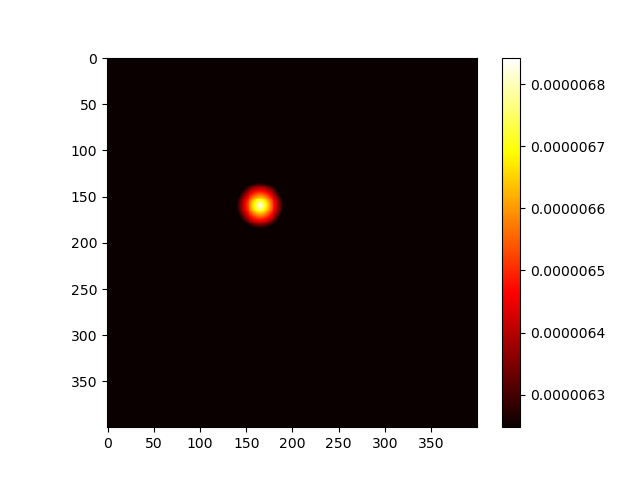
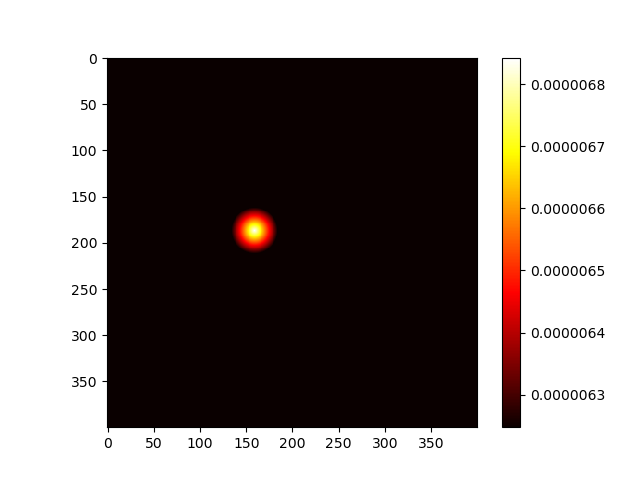
working impedance control

Changed region(s): [[0.3438, 0.375, 0.4375, 0.5312]]

diff --git a/src/impedance_control.py b/src/impedance_control.py
@@ -15,37 +15,180 @@ from visualization_msgs.msg import InteractiveMarker, InteractiveMarkerControl
 from interactive_markers.interactive_marker_server import InteractiveMarkerServer, InteractiveMarkerFeedback
 
 robot_pose = PoseStamped()
-initial_pose_found = False
 pose_pub = None
 # [[min_x, max_x], [min_y, max_y], [min_z, max_z]]
 position_limits = [[0.2, 0.6], [-0.6, 0.6], [0.05, 0.9]]
 map_translation = [0.3, -0.2, 0.0]
 NUM_ANGLE_STEPS = 10
 
-class FrankaRobot(object):
-    def __init__(self):
-        super(FrankaRobot, self).__init__()
-        moveit_commander.roscpp_initialize(sys.argv)
-        self.move_group = moveit_commander.MoveGroupCommander("panda_arm")
-        self.move_group.set_end_effector_link("panda_link8")
 
-    def get_robot_task_state(self):
-        robot_ee_pose = self.move_group.get_current_pose().pose
-        return [[robot_ee_pose.position.x, robot_ee_pose.position.y, robot_ee_pose.position.z], [robot_ee_pose.orientation.x, robot_ee_pose.orientation.y, robot_ee_pose.orientation.z, robot_ee_pose.orientation.w]]
+class Robot:
+    def __init__(self, link_name):
+        self.moving = False
+        self.angle_moving = False
+        self.position_index = 0
+        self.angle_moves = 0
+        self.initial_pose_found = False
+        self.link_name = link_name
+
+        # get start state of robot:
+        state_sub = rospy.Subscriber("franka_state_controller/franka_states", FrankaState, self.franka_state_callback_start)
+        self.pose_pub = rospy.Publisher("equilibrium_pose", PoseStamped, queue_size=10)
+        while not self.initial_pose_found:
+            rospy.sleep(1)
+        state_sub.unregister()
+
+        print(self.robot_pose)
+        self.pose_pub.publish(self.robot_pose)
+
+        # initialize the map:
+        self.weight_map = WeightMap(400, 400)
+        self.current_position = (self.robot_current_pose[0][0] ,self.robot_current_pose[0][1])
+        self.weight_map.update(self.robot_to_map_translation(self.current_position))
+
+        state_sub = rospy.Subscriber("franka_state_controller/franka_states", FrankaState, self.franka_state_callback)
+        self.rate = rospy.Rate(1)
+        while not rospy.is_shutdown():
+            self.rate.sleep()
+
+    def franka_state_callback_start(self, msg):
+        self.robot_pose = PoseStamped()
+        initial_quaternion = tf.transformations.quaternion_from_matrix(np.transpose(np.reshape(msg.O_T_EE, (4, 4))))
+        initial_quaternion = initial_quaternion / np.linalg.norm(initial_quaternion)
+        self.robot_pose.pose.orientation.x = initial_quaternion[0]
+        self.robot_pose.pose.orientation.y = initial_quaternion[1]
+        self.robot_pose.pose.orientation.z = initial_quaternion[2]
+        self.robot_pose.pose.orientation.w = initial_quaternion[3]
+        self.robot_pose.pose.position.x = msg.O_T_EE[12]
+        self.robot_pose.pose.position.y = msg.O_T_EE[13]
+        self.robot_pose.pose.position.z = msg.O_T_EE[14]
+
+        self.initial_pose_found = True
+        self.robot_current_pose = [[self.robot_pose.pose.position.x, self.robot_pose.pose.position.y, self.robot_pose.pose.position.z], [self.robot_pose.pose.orientation.x, self.robot_pose.pose.orientation.y, self.robot_pose.pose.orientation.z, self.robot_pose.pose.orientation.w]]
+
+    def franka_state_callback(self, msg):
+        self.robot_pose = PoseStamped()
+        initial_quaternion = tf.transformations.quaternion_from_matrix(np.transpose(np.reshape(msg.O_T_EE, (4, 4))))
+        initial_quaternion = initial_quaternion / np.linalg.norm(initial_quaternion)
+        self.robot_pose.pose.orientation.x = initial_quaternion[0]
+        self.robot_pose.pose.orientation.y = initial_quaternion[1]
+        self.robot_pose.pose.orientation.z = initial_quaternion[2]
+        self.robot_pose.pose.orientation.w = initial_quaternion[3]
+        self.robot_pose.pose.position.x = msg.O_T_EE[12]
+        self.robot_pose.pose.position.y = msg.O_T_EE[13]
+        self.robot_pose.pose.position.z = msg.O_T_EE[14]
+        self.robot_current_pose = [[self.robot_pose.pose.position.x, self.robot_pose.pose.position.y, self.robot_pose.pose.position.z], [self.robot_pose.pose.orientation.x, self.robot_pose.pose.orientation.y, self.robot_pose.pose.orientation.z, self.robot_pose.pose.orientation.w]]
+
+        self.initial_pose_found = True
+
+        if not self.moving and not self.angle_moving:
+            print("Calculating next position")
+            next_position = self.weight_map.get_next_target()
+            next_position = self.map_to_robot_translation(next_position)
+            self.positions, self.angles = self.interpolate_movement(self.current_position, next_position, self.robot_current_pose[1])
+            self.position_index = 0
+            self.angle_moves = 0
+            self.angle_moving = True
+            return
+
+        if self.angle_moving:
+            print("angle moving: ", self.angle_moves)
+            print(self.angles)
+            self.move_to_next_position(self.positions[0], self.angles[self.angle_moves])
+            self.angle_moves +=1
+            if self.angle_moves == NUM_ANGLE_STEPS:
+                self.angle_moving = False
+                self.moving = True
+                self.angle_moves = 0
+            return
+
+        if self.moving:
+            print("moving: ", self.position_index)
+            self.move_to_next_position(self.positions[self.position_index], self.angles[-1])
+
+            self.weight_map.update(self.robot_to_map_translation((self.robot_current_pose[0][0], self.robot_current_pose[0][1])))
+
+            self.current_position = (self.robot_current_pose[0][0], self.robot_current_pose[0][1])
+
+            self.position_index += 1
+            if self.position_index == len(self.positions):
+                self.moving = False
+            return
+
+        plt.imshow(self.weight_map.probabilities, cmap='hot', interpolation='nearest')
+        plt.colorbar()
+        frame_filename = f"/home/willmandil/catkin_ws/src/tabletop_pushing/robot_position_map/inverse_prob_frame_{self.position_index}.png"
+        plt.savefig(frame_filename)
+        plt.close()
+
+        self.rate.sleep()
 
 
-def franka_state_callback(msg):
-    initial_quaternion = tf.transformations.quaternion_from_matrix(np.transpose(np.reshape(msg.O_T_EE, (4, 4))))
-    initial_quaternion = initial_quaternion / np.linalg.norm(initial_quaternion)
-    robot_pose.pose.orientation.x = initial_quaternion[0]
-    robot_pose.pose.orientation.y = initial_quaternion[1]
-    robot_pose.pose.orientation.z = initial_quaternion[2]
-    robot_pose.pose.orientation.w = initial_quaternion[3]
-    robot_pose.pose.position.x = msg.O_T_EE[12]
-    robot_pose.pose.position.y = msg.O_T_EE[13]
-    robot_pose.pose.position.z = msg.O_T_EE[14]
-    global initial_pose_found
-    initial_pose_found = True
+    def interpolate_movement(self, start_position, end_position, start_angle_quat):
+        sx, sy = start_position[0], start_position[1]
+        ex, ey = end_position[0], end_position[1]
+        # Calculate the distance between the start and end positions
+        distance = np.sqrt((sx - ex)**2 + (sy - ey)**2)
+        # Calculate the number of steps to take
+        num_steps = int(distance / 0.015)
+        if num_steps == 0:
+            return [start_position]
+        # Calculate the step size
+        step_size = 1.0 / num_steps
+        # Calculate the x and y step sizes
+        x_step = (ex - sx) * step_size
+        y_step = (ey - sy) * step_size
+        # Create a list of positions to move to
+        positions = []
+        for i in range(num_steps):
+            positions.append((sx + i * x_step, sy + i * y_step))
+
+        # Calculate the angle between the start and end positions
+
+        roll, pitch, yaw = tf.transformations.euler_from_quaternion(start_angle_quat)
+        start_angle = yaw
+        finish_angle = np.arctan2(ey - sy, ex - sx)
+
+        angle_step_size = 1.0 / NUM_ANGLE_STEPS
+        angles = []
+        for i in range(NUM_ANGLE_STEPS):
+            angles.append(start_angle + i * (finish_angle - start_angle) * angle_step_size)
+
+        return positions, angles
+
+    def move_to_next_position(self, position, angle):
+        new_pose = PoseStamped()
+        new_pose.header.frame_id = link_name
+        new_pose.header.stamp = rospy.Time(0)
+        new_pose.pose.position.x = position[0]
+        new_pose.pose.position.y = position[1]
+        new_pose.pose.position.z = new_pose.pose.position.z
+
+        if angle > 2.5:
+            angle = 2.5
+        elif angle < -2.5:
+            angle = -2.5
+
+        # convert quaternion to euler
+        roll, pitch, yaw = tf.transformations.euler_from_quaternion([1, 0, 0, 0])
+        quaternion = tf.transformations.quaternion_from_euler(roll, pitch, angle)
+
+        new_pose.pose.orientation.x = quaternion[0]
+        new_pose.pose.orientation.y = quaternion[1]
+        new_pose.pose.orientation.z = quaternion[2]
+        new_pose.pose.orientation.w = quaternion[3]
+
+        self.pose_pub.publish(new_pose)
+
+    def map_to_robot_translation(self, map_position):
+        robot_x = (map_position[0] * 0.001) + map_translation[0]
+        robot_y = (map_position[1] * 0.001) + map_translation[1]
+        return (robot_x, robot_y)
+
+    def robot_to_map_translation(self, robot_position):  # works with map_translation = [0.2, -0.2, 0.0]
+        map_x = int((robot_position[0] - map_translation[0]) * 1000)
+        map_y = int((robot_position[1] - map_translation[1]) * 1000)
+        return (map_x, map_y)
 
 
 class WeightMap:
@@ -91,154 +234,8 @@ class WeightMap:
         self.probabilities = inverse_probabilities
         return (target_x, target_y)
 
-
-def interpolate_movement(start_position, end_position, start_angle_quat):
-    sx, sy = start_position[0], start_position[1]
-    ex, ey = end_position[0], end_position[1]
-    # Calculate the distance between the start and end positions
-    distance = np.sqrt((sx - ex)**2 + (sy - ey)**2)
-    # Calculate the number of steps to take
-    num_steps = int(distance / 0.015)
-    if num_steps == 0:
-        return [start_position]
-    # Calculate the step size
-    step_size = 1.0 / num_steps
-    # Calculate the x and y step sizes
-    x_step = (ex - sx) * step_size
-    y_step = (ey - sy) * step_size
-    # Create a list of positions to move to
-    positions = []
-    for i in range(num_steps):
-        positions.append((sx + i * x_step, sy + i * y_step))
-
-    # Calculate the angle between the start and end positions
-
-    roll, pitch, yaw = tf.transformations.euler_from_quaternion(start_angle_quat)
-    start_angle = yaw
-    finish_angle = np.arctan2(ey - sy, ex - sx)
-
-    angle_step_size = 1.0 / NUM_ANGLE_STEPS
-    angles = []
-    for i in range(num_steps):
-        angles.append(start_angle + i * (finish_angle - start_angle) * angle_step_size)
-
-    return positions, angles
-
-def move_to_next_position(position, angle):
-    new_pose.header.frame_id = link_name
-    new_pose.header.stamp = rospy.Time(0)
-    new_pose.pose.position.x = position[0]
-    new_pose.pose.position.y = position[1]
-    new_pose.pose.position.z = new_pose.pose.position.z
-
-    if angle > 2.5:
-        angle = 2.5
-    elif angle < -2.5:
-        angle = -2.5
-
-    print("angle: ", angle)
-
-    # convert quaternion to euler
-    roll, pitch, yaw = tf.transformations.euler_from_quaternion([1, 0, 0, 0])
-    quaternion = tf.transformations.quaternion_from_euler(roll, pitch, angle)
-
-    new_pose.pose.orientation.x = quaternion[0]
-    new_pose.pose.orientation.y = quaternion[1]
-    new_pose.pose.orientation.z = quaternion[2]
-    new_pose.pose.orientation.w = quaternion[3]
-
-    pose_pub.publish(new_pose)
-
-def map_to_robot_translation(map_position):
-    robot_x = (map_position[0] * 0.001) + map_translation[0]
-    robot_y = (map_position[1] * 0.001) + map_translation[1]
-    return (robot_x, robot_y)
-
-def robot_to_map_translation(robot_position):  # works with map_translation = [0.2, -0.2, 0.0]
-    map_x = int((robot_position[0] - map_translation[0]) * 1000)
-    map_y = int((robot_position[1] - map_translation[1]) * 1000)
-    return (map_x, map_y)
-
 if __name__ == "__main__":
     rospy.init_node("equilibrium_pose_node")
-    state_sub = rospy.Subscriber("franka_state_controller/franka_states", FrankaState, franka_state_callback)
-    listener = tf.TransformListener()
     link_name = rospy.get_param("~link_name")
 
-    # Get initial pose for the robot
-    while not initial_pose_found:
-        rospy.sleep(1)
-    state_sub.unregister()
-
-    pose_pub = rospy.Publisher("equilibrium_pose", PoseStamped, queue_size=10)
-
-    print("-------- robot pose --------")
-    print(robot_pose)
-
-    robot = FrankaRobot()
-    robot_current_pose = robot.get_robot_task_state()
-    print(robot_current_pose)
-
-    new_pose = PoseStamped()
-    new_pose.header.frame_id = link_name
-    new_pose.header.stamp = rospy.Time(0)
-    new_pose.pose.position.x = robot_pose.pose.position.x
-    new_pose.pose.position.y = robot_pose.pose.position.y
-    new_pose.pose.position.z = robot_pose.pose.position.z
-    new_pose.pose.orientation.x = robot_pose.pose.orientation.x
-    new_pose.pose.orientation.y = robot_pose.pose.orientation.y
-    new_pose.pose.orientation.z = robot_pose.pose.orientation.z
-    new_pose.pose.orientation.w = robot_pose.pose.orientation.w
-    pose_pub.publish(new_pose)
-
-    weight_map = WeightMap(400, 400)
-    current_position = (robot_current_pose[0][0] ,robot_current_pose[0][1])
-    weight_map.update(robot_to_map_translation(current_position))
-
-    # TODO: move to center of the map
-
-    moving = False
-    angle_moving = False
-    rate = rospy.Rate(5)
-    while not rospy.is_shutdown():
-
-        if not moving and not angle_moving:
-            next_position = weight_map.get_next_target()
-            next_position = map_to_robot_translation(next_position)
-            positions, angles = interpolate_movement(current_position, next_position, robot_current_pose[1])
-            position_index = 0
-            angle_moves = 0
-            angle_moving = True
-
-        if angle_moving:
-            print("angle_moving: ", angle_moves,  angles)
-            move_to_next_position(positions[0], angles[angle_moves])
-            angle_moves +=1
-            if angle_moves == NUM_ANGLE_STEPS:
-                angle_moves -= 1
-
-            if angle_moves == 15:
-                angle_moving = False
-                moving = True
-                angle_moves = 0
-  
-        if moving:
-            print("moving: ", position_index)
-            move_to_next_position(positions[position_index], angles[-1])
-
-            robot_current_pose = robot.get_robot_task_state()
-            weight_map.update(robot_to_map_translation((robot_current_pose[0][0], robot_current_pose[0][1])))
-
-            current_position = (robot_current_pose[0][0], robot_current_pose[0][1])
-
-            position_index += 1
-            if position_index == len(positions):
-                moving = False
-
-        plt.imshow(weight_map.probabilities, cmap='hot', interpolation='nearest')
-        plt.colorbar()
-        frame_filename = f"/home/willmandil/catkin_ws/src/tabletop_pushing/robot_position_map/inverse_prob_frame_{position_index}.png"
-        plt.savefig(frame_filename)
-        plt.close()
-
-        rate.sleep()
+    robot = Robot(link_name)
